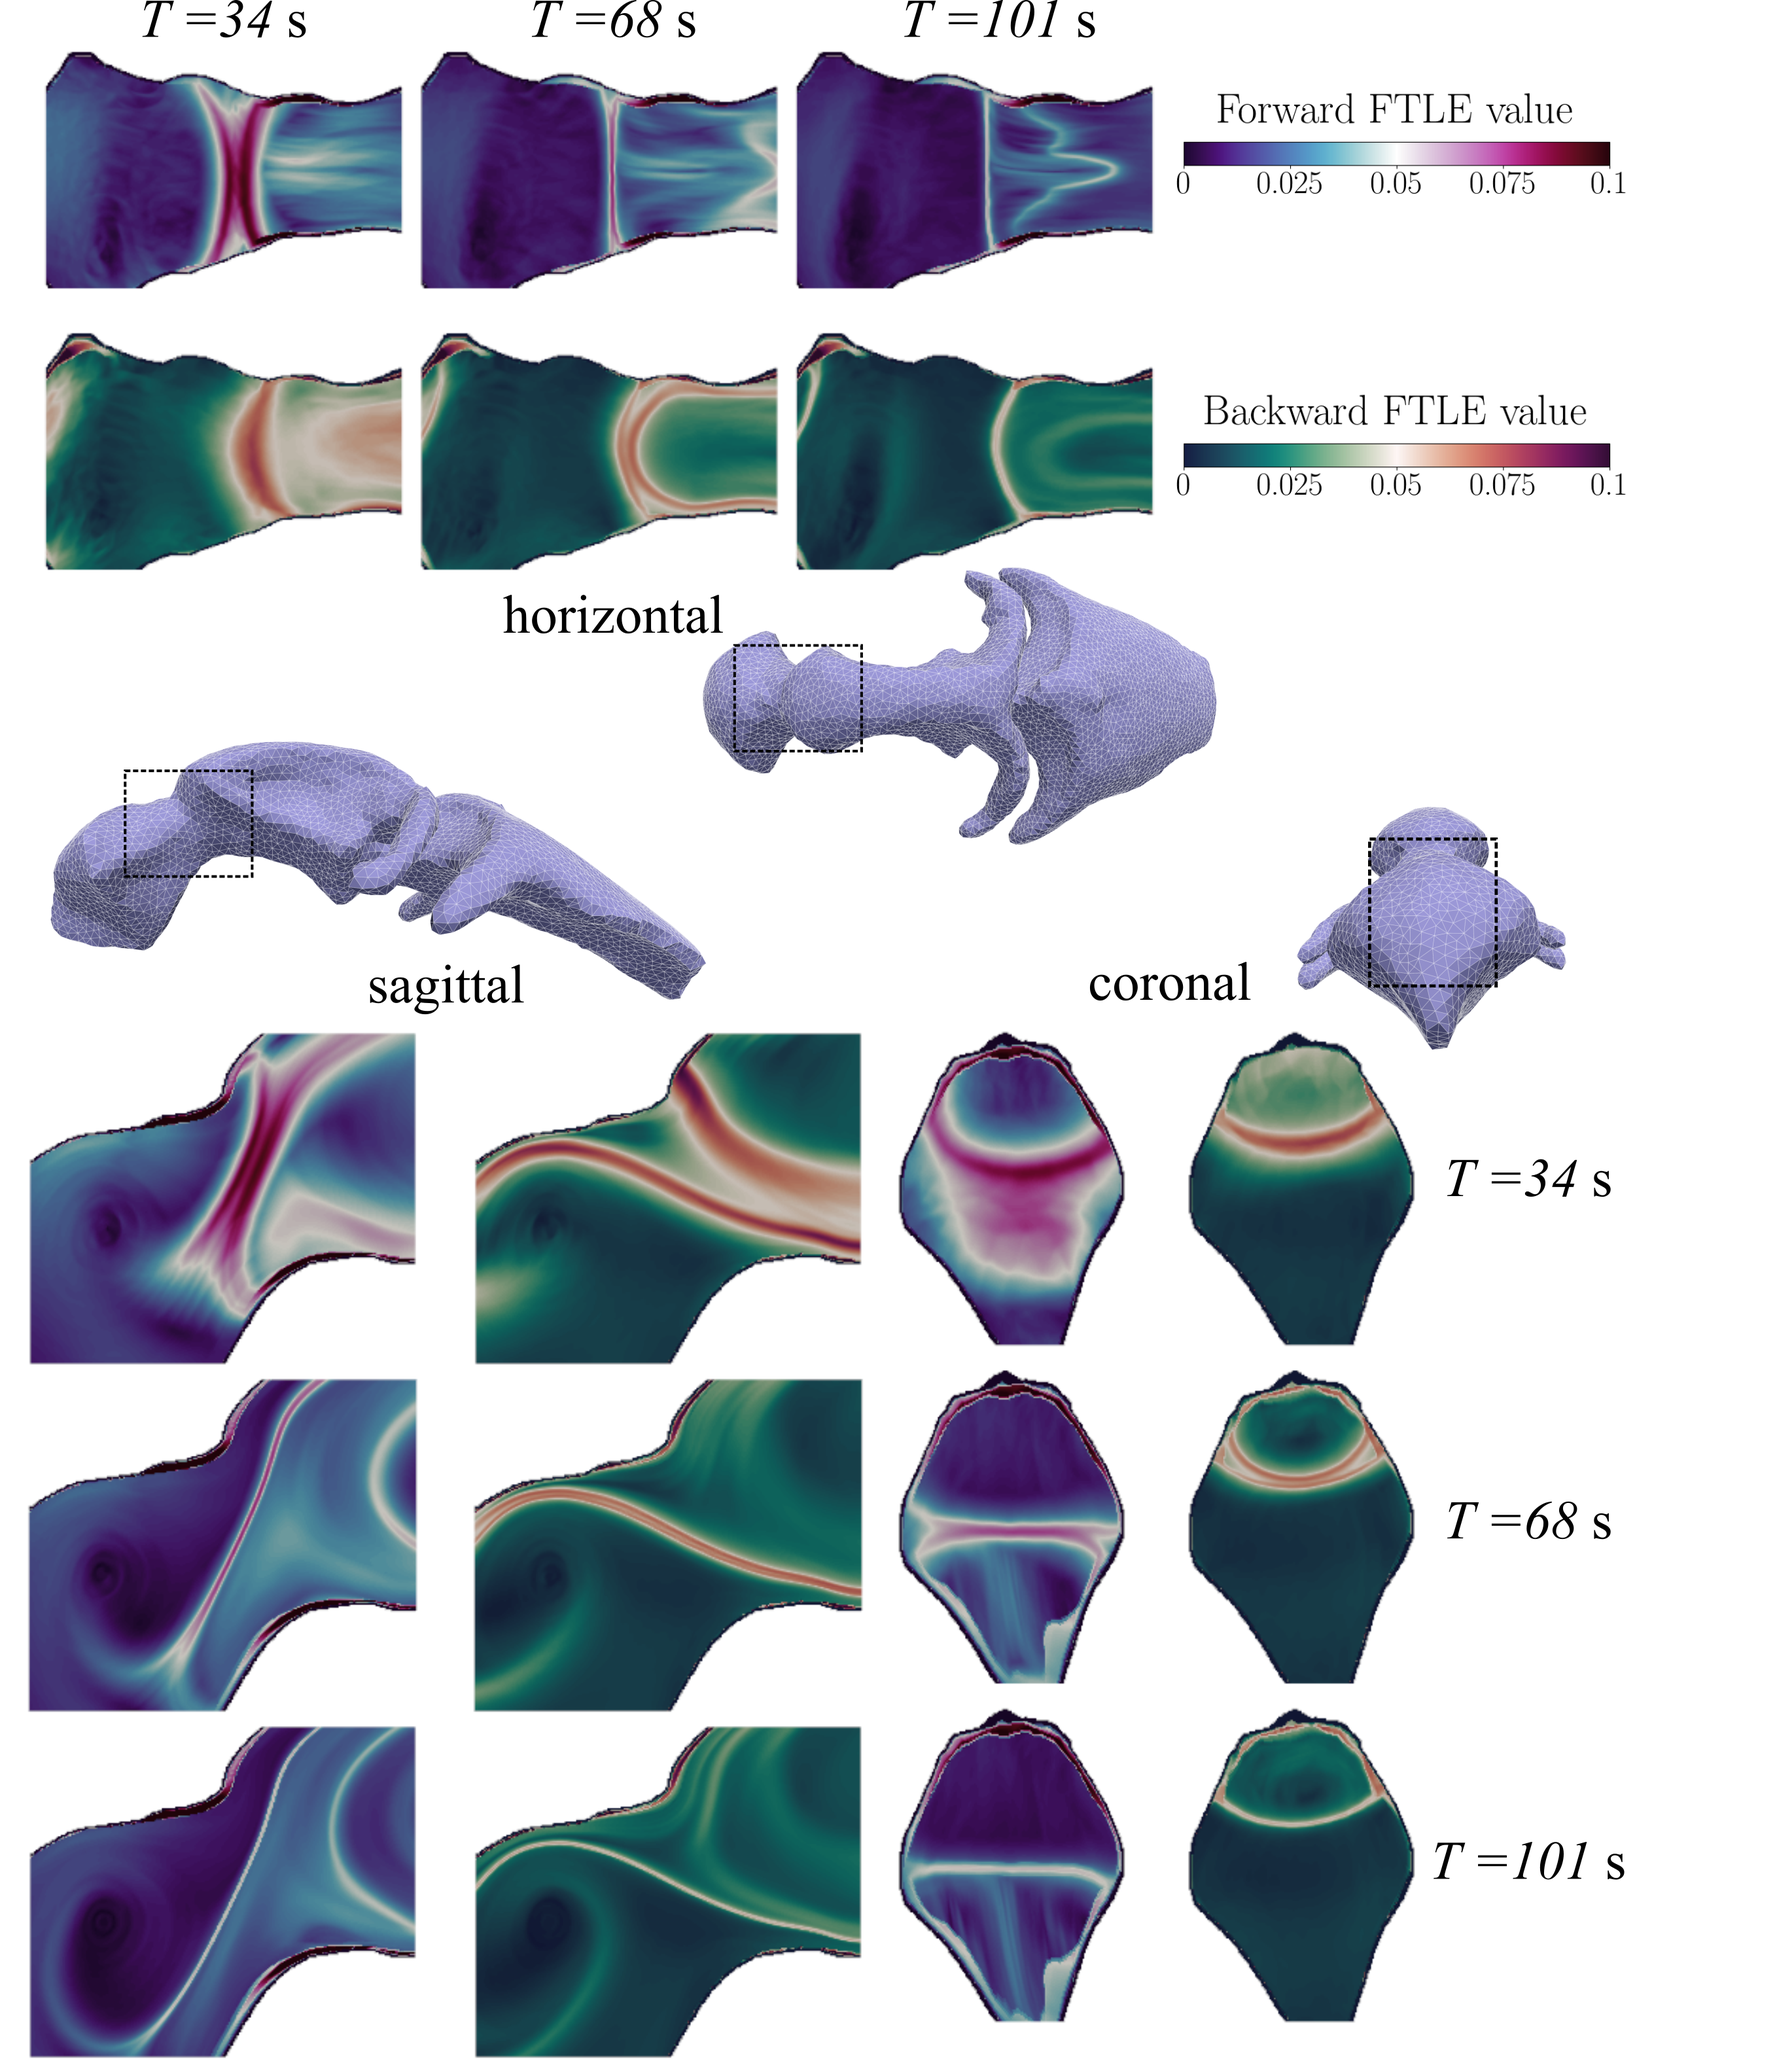
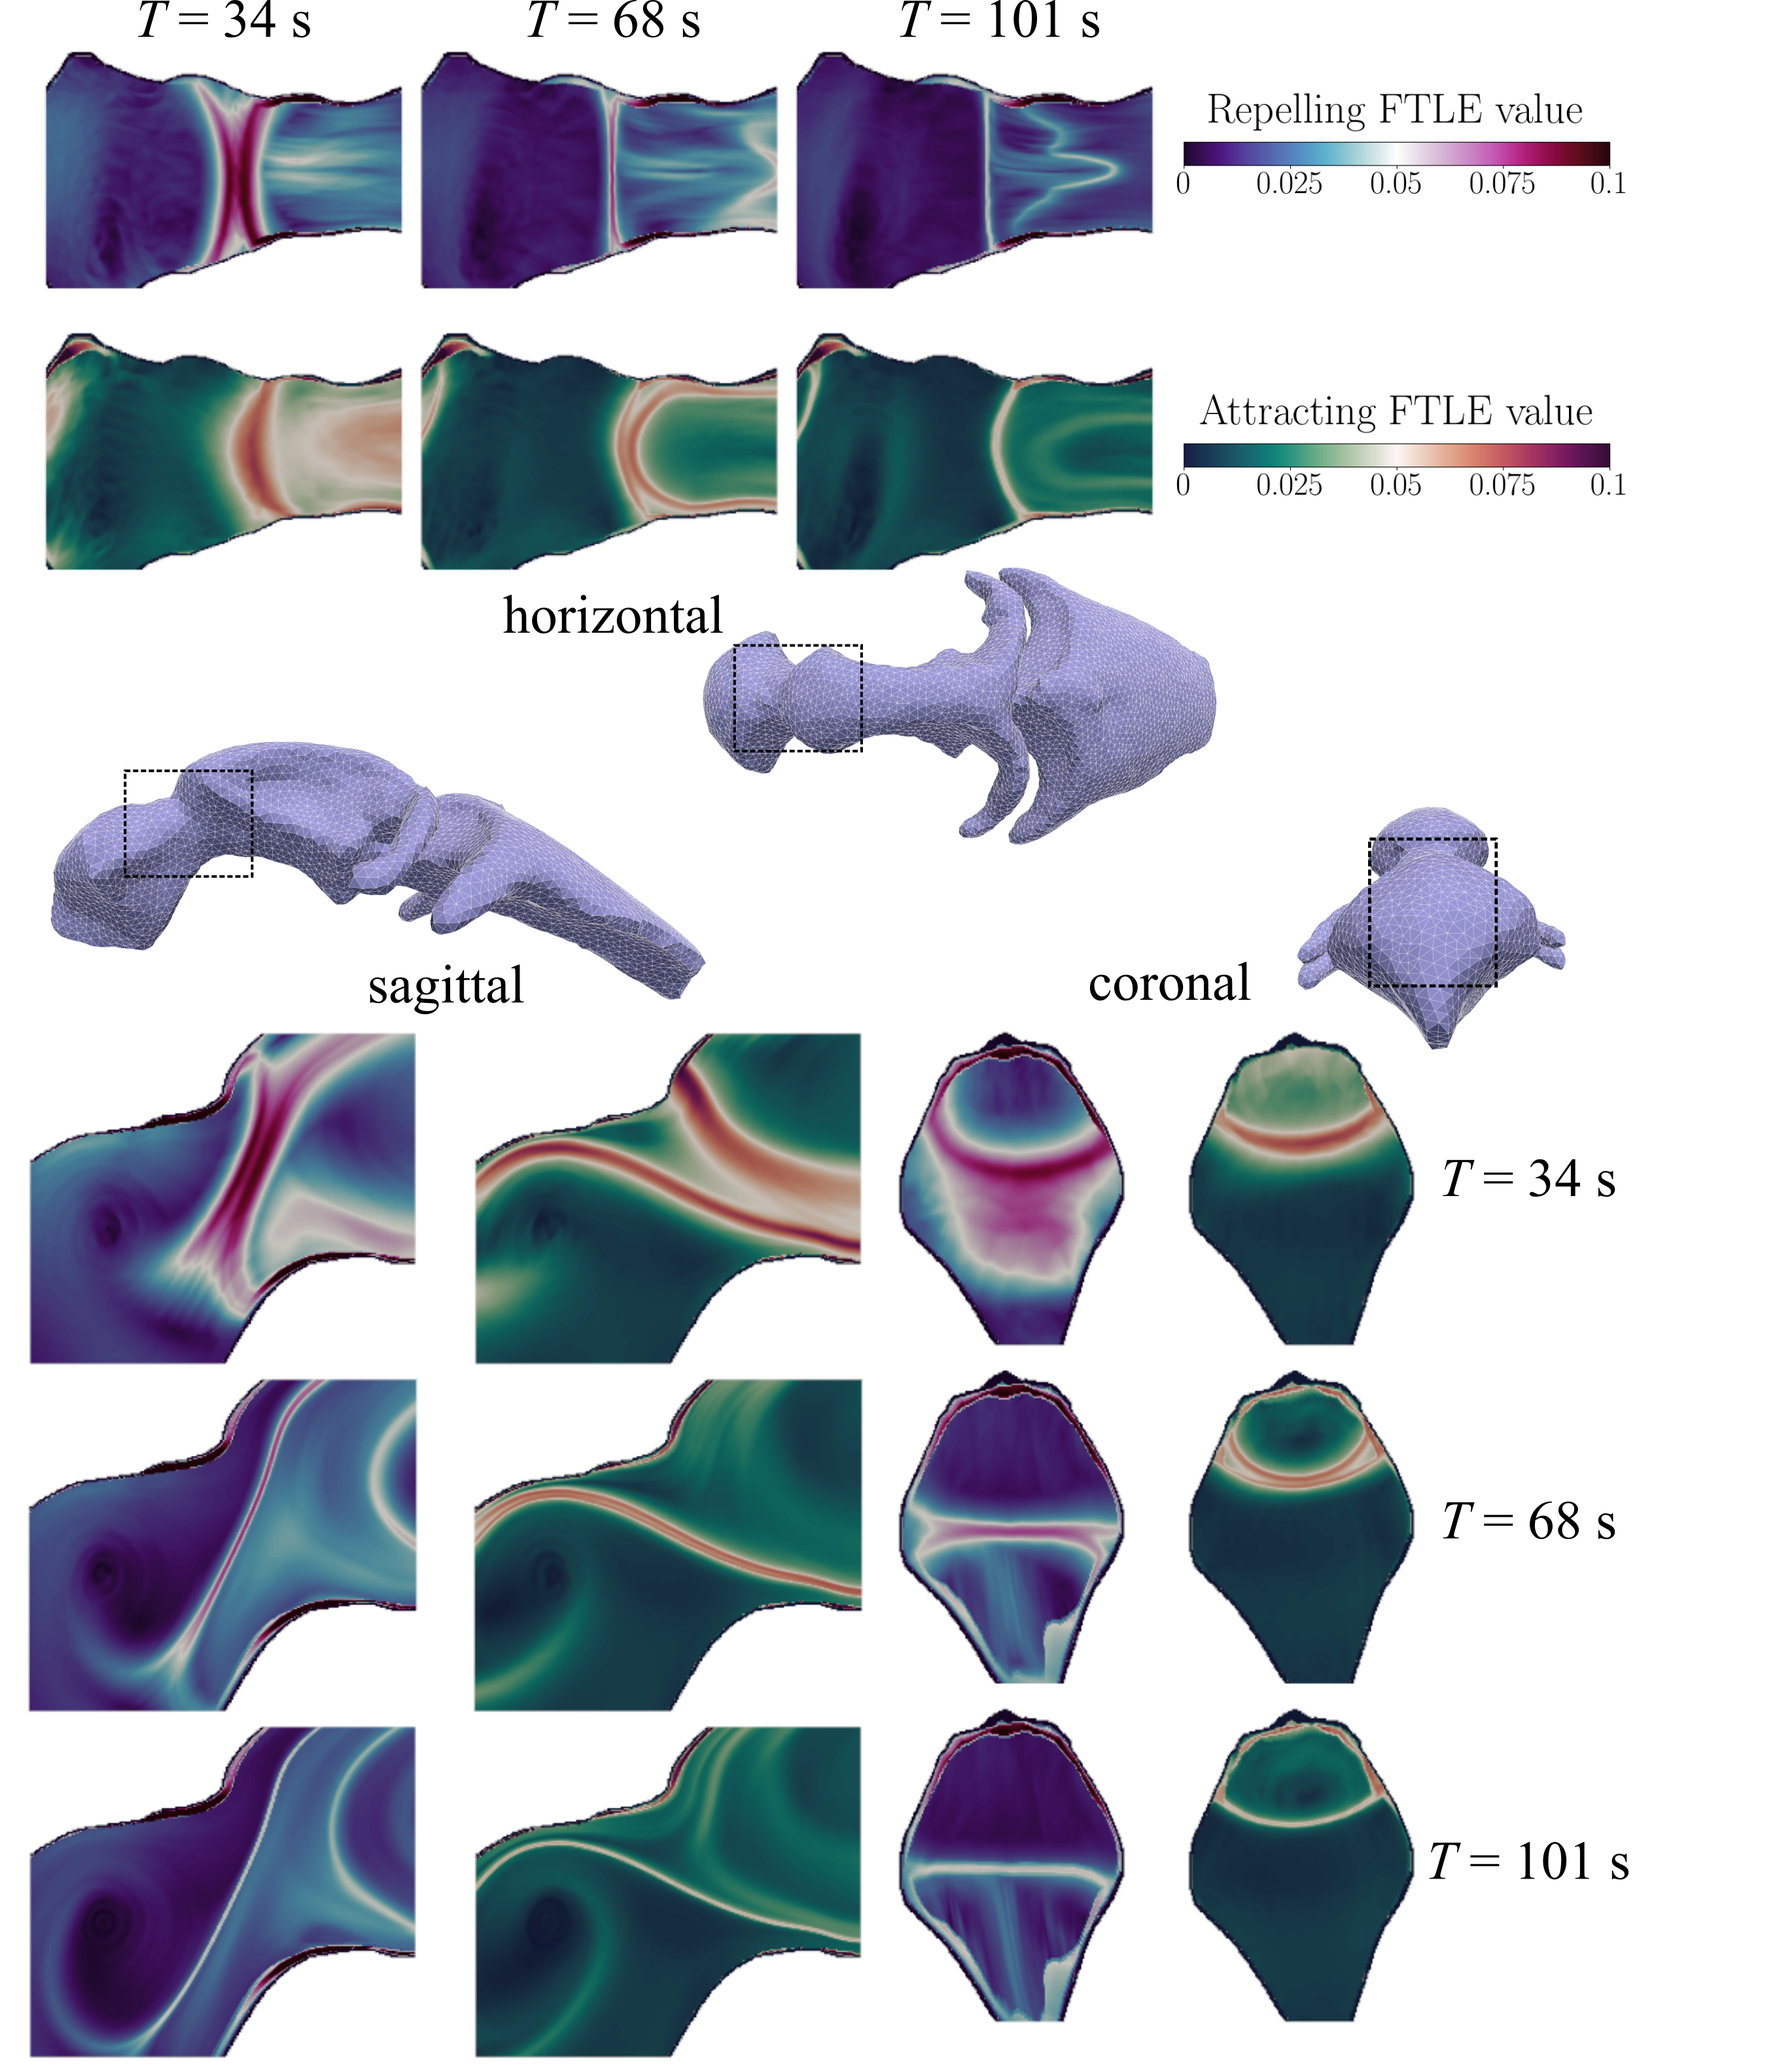
3d flow results

diff --git a/paper/main.tex b/paper/main.tex
@@ -380,7 +380,7 @@ based on \Cref{eq:time_dependent_stokes_eq}
 We will compute flow in human brain ventricles with both the Navier-Stokes
 equations (\Cref{eq:navier_stokes_mom_eq}) and the time-dependent
 Stokes equations (\Cref{eq:time_dependent_stokes_eq}) to assess
-the fairness of approximation.
+the role of inertia.
 
 \subsection{Flow mechanisms and boundary conditions}
 CSF flow in adult human brain ventricles differs from CSF flow in embryonic
@@ -561,10 +561,6 @@ magnitude of $\btau$. We model the direction $\rr$
 motivated by the work of Guirao~\emph{et al.},
 who found that motile-cilia beating direction is oriented by
 CSF production during neural development~\cite{Guirao2010CouplingCilia}.
-% This was also modeled by Siyahhan~\emph{et al.}, who considered
-% directionality of the cilia forcing aligned
-% with the wall shear stress of the macroscopic flow simulated in a
-% production-only setup~\cite{Siyahhan2014FlowVentricles}.
 To generate the vector $\rr(\xx, t)$, we simulate CSF flow with the
 choroid plexus boundary condition~\Cref{eq:choroid_plexus_BC},
 a zero normal traction condition on the spinal canal and lateral apertures,
@@ -839,14 +835,14 @@ framework implemented in C.
 The finite element methods for the fluid and solid equations
 are implemented and solved with Dolfinx, the Python interface
 of FEniCSx. A direct solver MUMPS is used to solve the fluid equations.
-We solve the solid equations iteratively with a Conjugate Gradient method
+We solve the solid equations iteratively with a Generalized Minimal Residual method
 with Algebraic Multigrid preconditioning.
 
 \section{Results}
-\subsection{Finite element CSF flow simulations}
-We here summarize the results of finite element simulations of the
-discretized Navier-Stokes equations (\Cref{eq:navier_stokes_eq})
-The initial contraction and caudal displacement of the brain ventricles
+\subsection{Finite element CSF flow simulations and Eulerian flow features}
+In finite element simulations of CSF flow with the discretized Navier-Stokes
+equations (\Cref{eq:navier_stokes_eq}), the initial contraction and
+caudal displacement of the brain ventricles
 during systole leads to a rapid increase in caudal CSF flow through the interventricular
 foramina and cerebral aqueduct (\Cref{fig:flow_results}). In the aqueduct, the flowrate peaks at
 0.229 ml/s after 25.7\% of the cardiac cycle. This is a little earlier than the peak
@@ -870,11 +866,29 @@ CSF volume crossing the domain boundary is through the lateral apertures
 with less fluid flowing in and out of the spinal canal (cumulative flow volume 7.8 \textmu l).
 The flow volumes through the interventricular foramina between the lateral and third 
 ventricles are evenly distributed.
+\begin{figure}
+    \centering
+    \includegraphics[width=\textwidth]{graphics/flow_results.png}
+    \caption{\textbf{a.} Volume dynamics of the ventricular system, third ventricle (3V)
+    and lateral ventricles (LV) over one cardiac cycle.
+    \textbf{b.} Applied displacement boundary conditions over four cardiac cycles.
+    The boundary condition magnitudes
+    are ramped up over two cardiac cycles with a cosine window applied to the first
+    cycle. The last cardiac cycle is where displacements are output to file for
+    subsequent use as boundary conditions in the fluid equations.
+    \textbf{c--f.} Quantities of interest computed over one cardiac cycle:
+    Flowrate and pressure gradient in the cerebral aqueduct (\textbf{c}), as
+    well as cumulative flow volumes (\textbf{d}), mean pressures (\textbf{e}) and
+    flowrates (\textbf{f}) in different parts of the ventricular system.}
+    \label{fig:flow_results}
+\end{figure}
 
+% Comparison of quantities of interest with Stokes approximation
 Solving the fluid equations with the Stokes equations (\Cref{eq:time_dependent_stokes_eq})
-yields a similar aqueductal stroke volume (47.9 \textmu l), but the displaced flow volumes
+results in similar qualitative CSF flow as described above. The Stokes approximation
+exhibits a similar aqueductal stroke volume (47.9 \textmu l), but the displaced flow volumes
 through the lateral apertures (47 \textmu l) and the spinal canal (4.9 \textmu l) differ
-from the Navier-Stokes results, especially the spinal canal stroke volume, which is 37\%
+from the Navier-Stokes velocity, especially the spinal canal stroke volume, which is 37\%
 lower for the Stokes approximation. Although predicted maximum and minimum flowrates and
 velocities occur at virtually the same time instants,
 the Stokes equations predict lower maximum and minimum velocity magnitudes
@@ -883,13 +897,39 @@ magnitude leads to a lower maximum Reynolds number of 385.
 The peak-to-nadir pressure gradient equals 0.0588 mmHg/cm, similar to that predicted
 by the Navier-Stokes equations.
 
+% Eulerian flow features and comparison
+Streamlines generated by integration forward in time at a given time
+instant demonstrates that CSF flow is more directional at certain time
+instants, while being more sporadic at other times (\Cref{fig:3d_flow_results}).
+Velocity vectors clearly show how mass conservation results in highest velocities
+through narrow sections like the cerebral aqueduct and interventricular foramina
+(\Cref{fig:3d_flow_results}).
+Velocities in larger compartments, like the lateral ventricles, are several orders 
+of magnitude smaller.
+A close-up inside the third ventricle reveals disparate flow features for 
+the Navier-Stokes and Stokes approximations. The Navier-Stokes CSF velocity vectors
+have vortical patterns indicating a jet forming right above
+the entrance to the cerebral aqueduct (\Cref{fig:3d_flow_results}).
+These vortical patterns are absent in the Stokes solution.
+
 \begin{figure}
     \centering
-    \includegraphics[width=\textwidth]{graphics/flow_results.png}
-    \caption{Caption.}
-    \label{fig:flow_results}
+    \includegraphics[width=\textwidth]{graphics/3d_flow_results.png}
+    \caption{\textbf{a.} Forward-in-time integrated streamlines of particles seeded
+    in the interventricular foramina at times $t=0.25, 0.50, 0.75$ s, corresponding
+    to systole, mid-cardiac cycle, and diastole, for the Navier-Stokes velocity
+    approximation. Note the distinct colorbar limit in each plot. 
+    \textbf{b.} Navier-Stokes velocity vectors at times $t=0.25, 0.50, 0.75$ s in
+    the human brain ventricles with zoomed-in view of  (bottom row).
+    \textbf{c.} Zoomed-in view (of the boxed region shown in panel \textbf{b})
+    of velocity vectors superior to the cerebral aqueduct entrance, both for
+    the Navier-Stokes and the Stokes solution, with notable differences
+    in flow features.
+    }
+    \label{fig:3d_flow_results}
 \end{figure}
 
+% Comparison of model versions
 Some of the computed flow quantities are similar for the three
 different models (\Cref{fig:flow_results}). The deformations are clearly the main driver of flow.
 There is a small shift in the flowrate and pressure gradient curves when adding CSF production,
@@ -903,11 +943,14 @@ The maximal caudal velocity is essentially the same,
 for all models, but the minimal cephalic velocity is greater in magnitude for the models with production. % (which makes sense)
 magnitude for the cases with production.
 
-Looking at velocity vectors, there seems to be a jet in the interventricular foramina
-and in the cerebral aqueduct. % Provide further comments on the flow.
-The flow features are very similar for the
-different models. In the same vein, the flow fields computed with the Navier-Stokes
-and Stokes equations are indiscernible.
+% Summarize zebrafish velocity field characteristics
+
+\subsection{FTLE fields in the human brain ventricles}
+
+There are clearly visible jets in both the aqueduct and the
+interventricular foramina, the narrowest sections where flow
+is strongest. In the bulk of the lateral and third ventricles,
+flow is apparently quite stagnant.
 
 
 \subsection{FTLE fields demonstrate ventricular flow compartmentalization in zebrafish embryos}
@@ -919,22 +962,16 @@ the CSF to the respective ventricles, obstructing interventricular flow.
 \begin{figure}
     \centering
     \includegraphics[width=\textwidth]{graphics/FTLE_zfish.png}
-    \caption{FTLE fields for integration times $T=\{34, 68, 101\}$ seconds
+    \caption{FTLE fields for integration times $T= 34, 68, 101$ s
     in the zebrafish brain ventricles that
     demonstrate compartmentalization of CSF flow. The FTLE fields
-    were computed in a cubic section of the interventricular duct
+    were computed in a boxed section of the interventricular duct
     connecting the anterior and middle ventricles, and displayed
     in horizontal, sagittal and coronal slices clipped at the 
-    center of the cube.}
+    center of the box. Common legends for all repelling and all attracting
+    fields.}
     \label{fig:FTLE_zfish}
 \end{figure}
-
-\subsection{FTLE fields in the human brain ventricles}
-
-There are clearly visible jets in both the aqueduct and the
-interventricular foramina, the narrowest sections where flow
-is strongest. In the bulk of the lateral and third ventricles,
-flow is apparently quite stagnant.
 
 \section{Discussion}
 
@@ -957,6 +994,16 @@ the main drivers of flow~\cite{Olstad2019CiliaryDevelopment, Herlyng2025Advectio
 partly because of the much smaller length scale of the system. Therefore, maybe cilia probably
 play a similarly important role in small confined spaces of the human ventricular system,
 such as in the inferior and occipital horns of the lateral ventricles.
+
+We considered the beating direction of cilia to align with the direction of 
+CSF production velocities, similar to Siyahhan~\emph{et al.}, who considered
+directionality of the cilia forcing aligned
+with the wall shear stress of the macroscopic flow simulated in a
+production-only setup~\cite{Siyahhan2014FlowVentricles}.
+In our setup, with the only free boundaries of the geometry located
+in the caudal end of the geometry, the production velocity and thus
+the ciliary beating is generally caudally directed. The impact of
+this assumption could be interesting to assess.
 
 \subsection{Model validation, brain deformation and CSF flow}
 To assess the physiological validity of the flow, we computed several
@@ -1044,9 +1091,6 @@ as well, with small velocities elsewhere.
 \subsection{Limitations}
 This modeling work comprises several mechanisms, parameters and
 assumptions that are uncertain.
-There is an inherent uncertainty
-in brain imaging, theory and modeling. 
-
 For the (damped) linear elastic model, there is an inherent
 uncertainty in the material parameters
 of brain tissue~\cite{smillie2005hydroelastic}.
@@ -1062,19 +1106,18 @@ Moreover, the ventricles are in reality fluid-filled, and we
 seek simply a smooth extension to the rest of the domain
 for the displacement measurement boundary condition $\bm{g}(\xx, t)$.
 
-Respiration has its own flow component~\cite{Vinje2019RespiratoryMeasurements}.
-We only modeled pulsatile deformations driven by a cardiac freqeuncy.
-
 CSF production might in reality neither be constant nor evenly
 distributed across the choroid plexuses of the ventricles~\cite{}.
 Also, in reality 10--30\% of the CSF production
 may come from interstitial fluid transported through the ependymal cell
 layer of the brain ventricles walls into the ventricles~\cite{Brodal2016TheSystem}.
 
+Respiration has its own flow component~\cite{Vinje2019RespiratoryMeasurements}.
+We only modeled pulsatile deformations driven by a cardiac freqeuncy.
+
 Computing LCS with velocity fields obtained from a more holistic
 brain model would be interesting, as X points out that full CNS models are
 important.
-
 
 There is uncertainty around our choice of Navier slip boundary condition.
 First, the force per surface area parameter $\tau$ is based on the value used by
@@ -1104,6 +1147,9 @@ compromise between these two cases. An experiment looking into
 fair values of both $\tau$ and $\alpha$ is required for further
 insights on this.
 
+\section{Conclusions and outlook}
+We hope our work inspires further Lagrangian analysis of
+CSF flow.
 
 \subsection*{Acknowledgments}
 Grateful thanks are given to Miroslav Kuchta for model and
